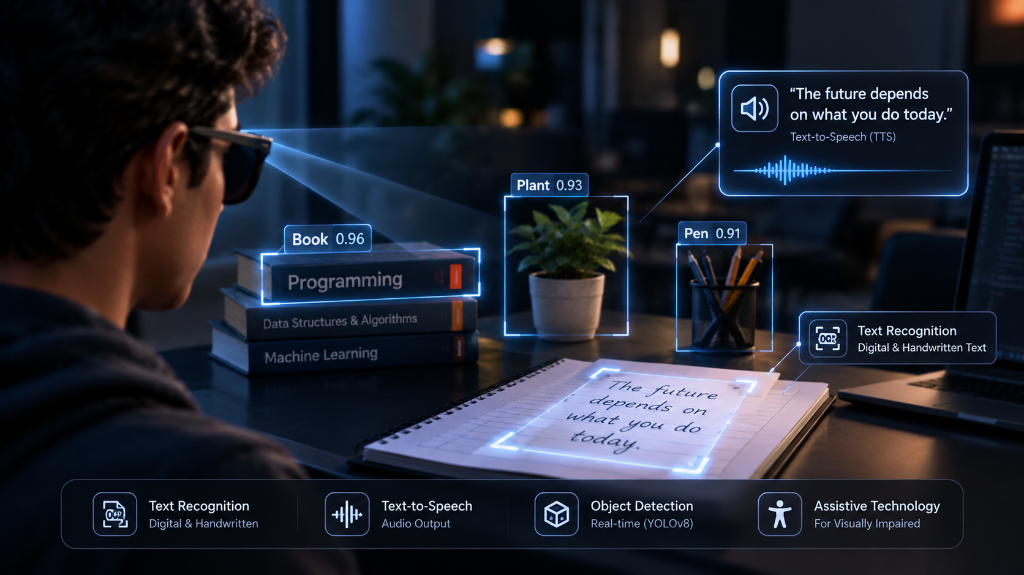
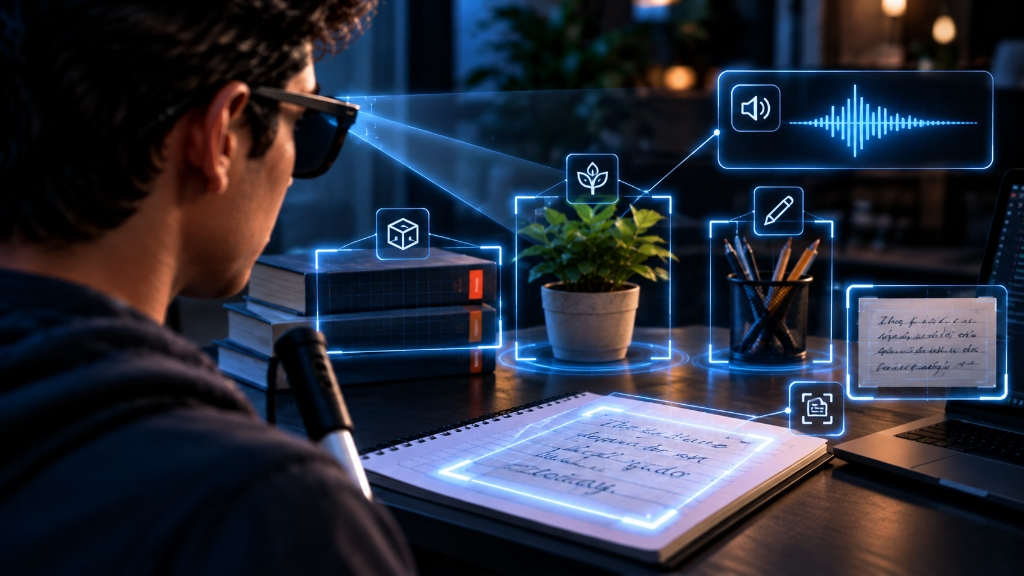
feat: update custom project visuals and set Genetic Purity AI as 2nd project

diff --git a/src/data/portfolio.ts b/src/data/portfolio.ts
@@ -122,6 +122,32 @@ export const PORTFOLIO_DATA = {
       imageAlt: "SmartVision AI-powered assistive technology interface with real-time OCR, TTS audio synthesis, and YOLOv8 object detection",
     },
     {
+      id: "genetic-purity-ai",
+      title: "Genetic Purity AI",
+      subtitle: "AI-Based Crop Genetic Purity Detection",
+      category: "AI/ML · WEB APPLICATION",
+      description:
+        "A Flask-based web application that analyzes chilli plant specimen images using a MobileNet-based deep learning model to classify specimens as male, female, or hybrid.",
+      detailedOverview:
+        "Genetic Purity AI applies computer vision to agricultural botanical inspection. By analyzing morphological characteristics in chilli plant specimens (leaves, stems, and floral structures), the system automates purity verification for agricultural research and seed quality assurance. The platform incorporates end-to-end image preprocessing, MobileNet transfer learning via Keras/TensorFlow, secure authentication, and downloadable PDF classification reports.",
+      keyFeatures: [
+        "MobileNet deep learning classifier for chilli plant genetic purity",
+        "Botanical morphology analysis for male, female, and hybrid specimen identification",
+        "Integrated image preprocessing and augmentation pipeline",
+        "Secure user authentication, prediction history, and PDF report generation",
+      ],
+      technologies: [
+        "Python",
+        "Flask",
+        "TensorFlow/Keras",
+        "MobileNet",
+        "OpenCV",
+        "MongoDB",
+      ],
+      image: "/genetic-purity.png",
+      imageAlt: "Genetic Purity AI plant morphology analysis dashboard showing specimen input, feature extraction, t-SNE embeddings, and purity classification",
+    },
+    {
       id: "civictrack",
       title: "CivicTrack",
       subtitle: "AI-Powered Civic Issue Reporting & Resolution Platform",
@@ -147,36 +173,8 @@ export const PORTFOLIO_DATA = {
         "Geospatial Mapping",
       ],
       liveDemoUrl: "https://civictrack-blue.vercel.app/",
-      image:
-        "https://images.unsplash.com/photo-1519501025264-65ba15a82390?auto=format&fit=crop&w=1200&q=85",
-      imageAlt: "Civic urban infrastructure and smart city management interface visualization",
-    },
-    {
-      id: "genetic-purity-ai",
-      title: "Genetic Purity AI",
-      subtitle: "AI-Based Crop Genetic Purity Detection",
-      category: "AI/ML · WEB APPLICATION",
-      description:
-        "A Flask-based web application that analyzes chilli plant specimen images using a MobileNet-based deep learning model to classify specimens as male, female, or hybrid.",
-      detailedOverview:
-        "Genetic Purity AI applies computer vision to agricultural botanical inspection. By analyzing morphological characteristics in chilli plant specimens (leaves, stems, and floral structures), the system automates purity verification for agricultural research and seed quality assurance. The platform incorporates end-to-end image preprocessing, MobileNet transfer learning via Keras/TensorFlow, secure authentication, and downloadable PDF classification reports.",
-      keyFeatures: [
-        "MobileNet deep learning classifier for chilli plant genetic purity",
-        "Botanical morphology analysis for male, female, and hybrid specimen identification",
-        "Integrated image preprocessing and augmentation pipeline",
-        "Secure user authentication, prediction history, and PDF report generation",
-      ],
-      technologies: [
-        "Python",
-        "Flask",
-        "TensorFlow/Keras",
-        "MobileNet",
-        "OpenCV",
-        "MongoDB",
-      ],
-      image:
-        "https://images.unsplash.com/photo-1588872657578-7efd1f1555ed?auto=format&fit=crop&w=1200&q=85",
-      imageAlt: "Chilli plant botanical specimen and green foliage for agricultural genetic purity analysis",
+      image: "/civictrack.png",
+      imageAlt: "CivicTrack AI civic issue reporting platform showing citizen reporting road potholes, waste bins, and GPS geospatial issue mapping with municipal resolution crew",
     },
     {
       id: "grainvision",
@@ -201,9 +199,8 @@ export const PORTFOLIO_DATA = {
         "React",
         "Docker",
       ],
-      image:
-        "https://images.unsplash.com/photo-1574323347407-f5e1ad6d020b?auto=format&fit=crop&w=1200&q=85",
-      imageAlt: "Golden agricultural wheat and grain harvest inspection visual",
+      image: "/grainvision.png",
+      imageAlt: "GrainVision automated computer vision conveyor inspection system detecting impurities and foreign contaminants in agricultural grains with YOLOv8 bounding boxes",
     },
     {
       id: "saveher",
@@ -230,9 +227,8 @@ export const PORTFOLIO_DATA = {
         "Mapbox GL JS",
         "PWA",
       ],
-      image:
-        "https://images.unsplash.com/photo-1508873696983-2df5293cb395?auto=format&fit=crop&w=1200&q=85",
-      imageAlt: "Emergency geolocation and personal safety application concept on illuminated city map",
+      image: "/saveher.png",
+      imageAlt: "SaveHer discreet emergency SOS web app visual showing wearable alert trigger, GPS tracking route, police dispatch, and security monitoring console",
     },
     {
       id: "curiobattle",
